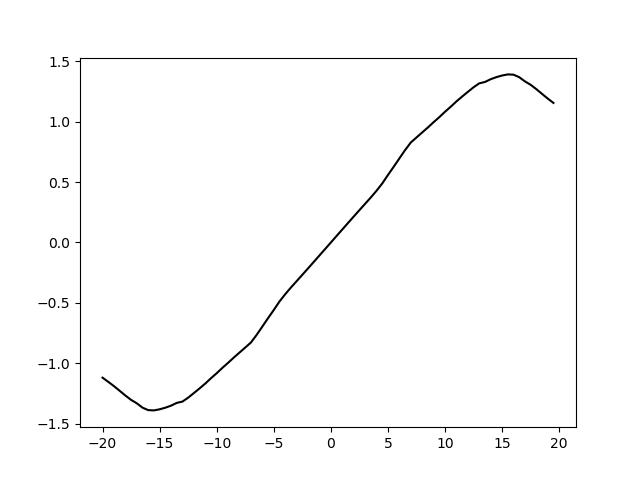
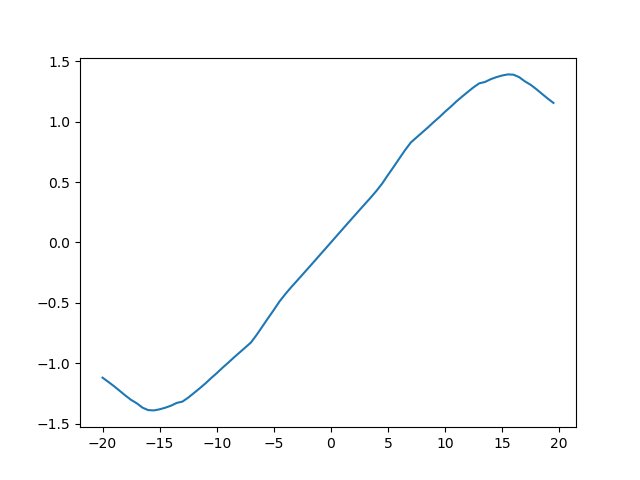
Simplified readme

diff --git a/README.md b/README.md
@@ -81,7 +81,7 @@ drag coefficients, `cd`, and moment coefficients, `cm`. We can now, for example,
 
 ```pycon
 >>>  import matplotlib.pyplot as plt
->>>  plt.plot(a, cl, 'k*')
+>>>  plt.plot(a, cl)
 >>>  plt.show()
 ```
 
